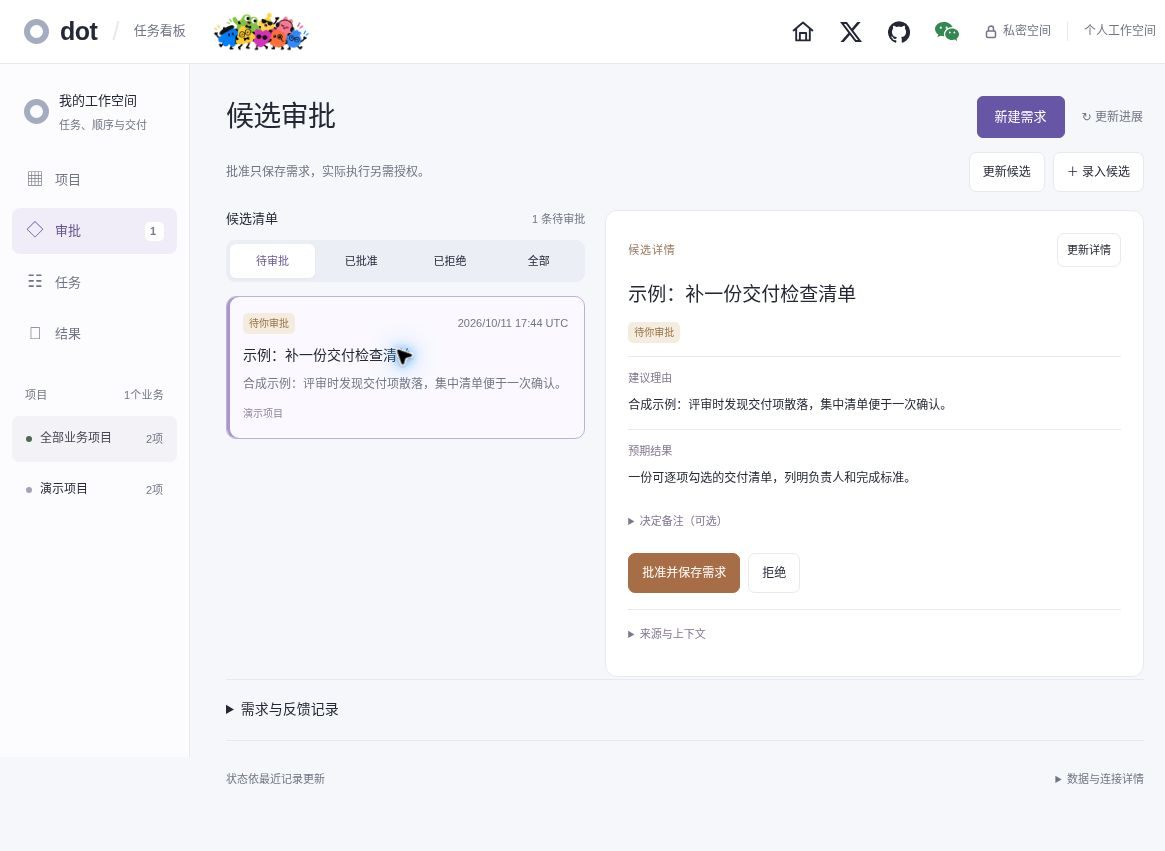
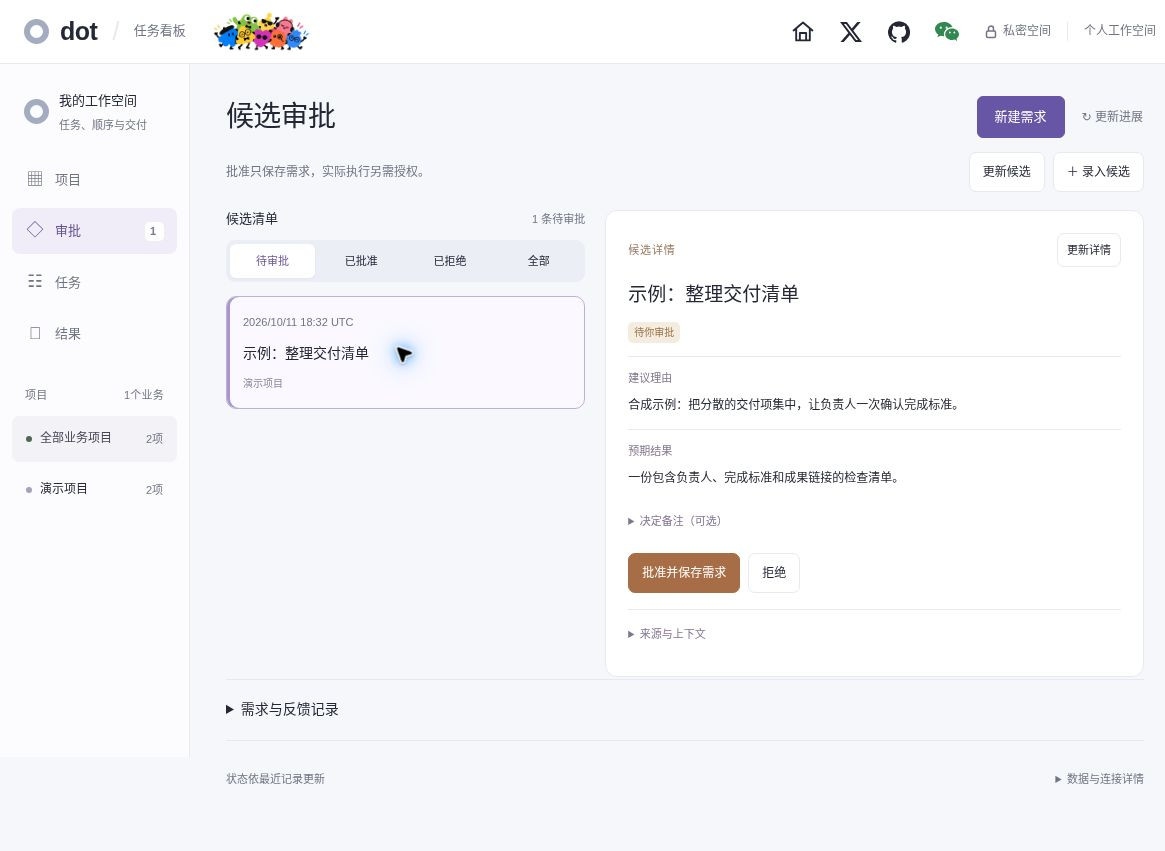
fix(ui): remove repeated decision and task details

diff --git a/public/app.js b/public/app.js
@@ -1,6 +1,6 @@
 import {createCandidateController, renderCandidateWorkspace, candidateReadsAvailable} from './candidate-workspace.js';
 import {renderTaskWorkspace, renderResultsWorkspace, renderCapabilityState, renderWorkspaceDecisions, decisionProjectId} from './workspace-views.js';
-import {renderProjectClarity, renderRequestInbox, taskClarity, clarityBoard, renderTaskHistory, createManualStatusController, renderManualStatusForm, createTaskRequirementsController, renderTaskRequirementsForm, MANUAL_STATES, presentationScope, projectPresentationKind, presentationBoard} from './project-clarity.js';
+import {renderProjectClarity, renderRequestInbox, taskClarity, compactTaskFacts, clarityBoard, renderTaskHistory, createManualStatusController, renderManualStatusForm, createTaskRequirementsController, renderTaskRequirementsForm, MANUAL_STATES, presentationScope, projectPresentationKind, presentationBoard} from './project-clarity.js';
 import {createQueueControls} from './queue-controls.js';
 import {aggregateProjects, renderProjectOverview, ageExecutionBoard, executionExpirySignature, mappedQueueTaskContext, originalQueueTaskContext, withoutManagedQueueTasks} from './project-overview.js';
 import {createRolePortrait, resolvePortraitRole} from './collaboration-graph.js';
@@ -123,8 +123,9 @@ function taskInspector(task){
   if(ui.fromAgent){const agent=agentById(ui.fromAgent);fragment.append(button('inspector-back',`← 返回 ${agentName(agent)}`,()=>selectItem('agent',ui.fromAgent)));}
   fragment.append(el('h2','inspector-title',`${task.taskNumber?'#'+task.taskNumber+' · ':''}${task.title}`));fragment.append(button('request-task-cta','就这项任务补充需求 / 反馈',()=>openTaskRequest(task)));const status=el('div','inspector-status');status.append(badge(taskState(task)),el('span','',freshLabel(task.observedAt) || '近期观察'));fragment.append(status);
   const demand=detailSection('既有任务需求','','来源：当前任务记录 · 与新增需求/反馈记录分别保留');appendPairs(demand,[['目标',task.goal||'尚未记录'],['完成标准',task.acceptanceCriteria||'尚未记录']]);fragment.append(demand);
-  const progress=detailSection('进展记录','◉',task.currentStep?`当前步骤：${task.currentStep}`:task.lastEffectiveAction?`最近有效动作：${task.lastEffectiveAction}`:task.observation,'尚未记录具体进展');appendPairs(progress,[['项目',task.project],['阶段',task.stage],['任务角色',task.ownerRole || '角色未记录'],['观察时间',formatted(task.observedAt)]]);fragment.append(progress);
-  const clarity=taskClarity(task,currentBoard(),queueSnapshot,Date.now(),config?.staleAfterMinutes||120),arranged=clarity.stopped||clarity.manualCompleted;const next=detailSection(arranged?'当前安排':'卡点与下一步','⌁');if(arranged){next.append(el('p','',clarity.next));}else {if(clarity.blocker){const block=el('div','attention-box');block.append(el('strong','','停在这里的原因'),document.createTextNode(text(clarity.blocker)));next.append(block);}const node=el('div','next-action');node.append(el('strong','','下一步'),document.createTextNode(text(clarity.next)));next.append(node);if(task.nextOwnerRole)next.append(el('p','time-note',`下一步负责人 · ${task.nextOwnerRole}`));}fragment.append(next);renderTaskHistory(fragment,clarity.history);
+  const clarity=taskClarity(task,currentBoard(),queueSnapshot,Date.now(),config?.staleAfterMinutes||120),arranged=clarity.stopped||clarity.manualCompleted,facts=compactTaskFacts({...clarity,progress:task.currentStep||task.lastEffectiveAction||task.observation||''});
+  const progress=detailSection(['进展记录',facts.progressIsBlocker?'卡点':'',facts.progressIsNext?'下一步':''].filter(Boolean).join(' · '),'◉',task.currentStep?`当前步骤：${task.currentStep}`:task.lastEffectiveAction?`最近有效动作：${task.lastEffectiveAction}`:task.observation,'尚未记录具体进展');appendPairs(progress,[['项目',task.project],['阶段',task.stage],['任务角色',task.ownerRole || '角色未记录'],['观察时间',formatted(task.observedAt)]]);if(facts.progressIsNext&&task.nextOwnerRole)progress.append(el('p','time-note',`下一步负责人 · ${task.nextOwnerRole}`));fragment.append(progress);
+  if(arranged||facts.blocker||facts.next){const next=detailSection(arranged?'当前安排':facts.blocker&&facts.next||facts.blockerIsNext?'卡点与下一步':facts.blocker?'卡点':'下一步','⌁');if(arranged){next.append(el('p','',clarity.next));}else {if(facts.blocker){const block=el('div','attention-box');block.append(el('strong','',facts.blockerIsNext?'卡点与下一步':'停在这里的原因'),document.createTextNode(text(facts.blocker)));next.append(block);}if(facts.next){const node=el('div','next-action');node.append(el('strong','','下一步'),document.createTextNode(text(facts.next)));next.append(node);}if(!facts.progressIsNext&&task.nextOwnerRole)next.append(el('p','time-note',`下一步负责人 · ${task.nextOwnerRole}`));}fragment.append(next);}renderTaskHistory(fragment,clarity.history);
   const linked=taskAgents(task),owners=detailSection('执行负责人记录','⑂');if(linked.length){const rows=el('div','related-list');for(const agent of linked){const node=button('related-button',undefined,()=>selectItem('agent',agent.id));node.append(el('span','',agentName(agent)),badge(agentState(agent)));rows.append(node);}owners.append(rows);}else owners.append(el('p','missing','尚未找到可核对的原执行线程'));fragment.append(owners);
   const evidence=detailSection('产出与证据','↗');appendEvidence(evidence,task.evidence);fragment.append(evidence);
   if(config?.requirementsEnabled===true){
@@ -132,7 +133,7 @@ function taskInspector(task){
   }
   const manualSection=detailSection('手动状态与备注','');renderManualStatusForm(manualSection,task,manualStatuses);fragment.append(manualSection);
   const checks=detailSection('验收状态','✓'),checksList=el('div','verification');for(const [key,label] of [['sourceReview','源码 / 资料检查'],['deployment','部署 / 交付'],['businessAcceptance','业务验收']]){const check=task.verification?.[key] || {},row=el('div','verification-row'),line=el('div','verification-top');line.append(el('span','',label),el('span','verification-state',config?.verification?.[check.state] || '未核实'));row.append(line);if(check.note)row.append(el('p','verification-note',check.note));checksList.append(row);}checks.append(checksList);fragment.append(checks);
-  const details=el('details','more-details');details.open=expandedDetails.has(task.id);details.addEventListener('toggle',()=>{if(details.open)expandedDetails.add(task.id);else expandedDetails.delete(task.id);});details.append(el('summary','','目标与完成标准'));for(const [label,value] of [['目标',task.goal],['完成标准',task.acceptanceCriteria],['留给你的决定',task.retainedDecision]]){details.append(el('h3','',label),el('p','',value || '未记录'));}if(task.state==='paused')details.append(el('p','','保持暂停；此页面不会启动或恢复任务'));fragment.append(details);return fragment;
+  const details=el('details','more-details');details.open=expandedDetails.has(task.id);details.addEventListener('toggle',()=>{if(details.open)expandedDetails.add(task.id);else expandedDetails.delete(task.id);});details.append(el('summary','','补充决定与限制'),el('h3','','留给你的决定'),el('p','',task.retainedDecision || '未记录'));if(task.state==='paused')details.append(el('p','','保持暂停；此页面不会启动或恢复任务'));fragment.append(details);return fragment;
 }
 function renderInspector(){$('inspector').hidden=!ui.detailOpen;const selected=ui.selected&&(ui.selected.type==='agent'?agentById(ui.selected.id):taskById(ui.selected.id));if(!selected){ui.detailOpen=false;$('inspector').hidden=true;const empty=el('div','inspector-empty');empty.append(el('span','','↖'),el('h2','','选择一条记录'),el('p','','查看任务、等待原因和最近产出'));$('inspector').replaceChildren(empty);return;}$('inspector').replaceChildren(ui.selected.type==='agent'?agentInspector(selected):taskInspector(selected));}
 function queueTaskContext(job){return mappedQueueTaskContext(currentBoard(),job)||originalQueueTaskContext(currentBoard(),job);}

diff --git a/public/project-clarity.js b/public/project-clarity.js
@@ -66,6 +66,15 @@ export function taskClarity(task, board, queue, now = Date.now(), staleAfterMinu
   return {task, manual, ...display, history:display.manualCompleted?{blocker:safe(task.blocker),next:safe(task.nextAction)}:null, owners, execution, executionState, threadVerified:Boolean(execution?.threadBound), stopped, freshness, status, progress, next, blocker:display.manualCompleted?'':safe(task.blocker)};
 }
 
+// Collapse only identical source text, retaining every field's visible meaning.
+// Stop arrangements and manual completion notes remain separate from observations.
+export function compactTaskFacts(clarity) {
+  const progress=safe(clarity.progress),blocker=clarity.stopped?'':safe(clarity.blocker),next=safe(clarity.next);
+  const progressIsBlocker=Boolean(progress&&blocker===progress),mayMergeNext=!clarity.stopped&&!clarity.manualCompleted;
+  const progressIsNext=Boolean(mayMergeNext&&progress&&next===progress),blockerIsNext=Boolean(mayMergeNext&&!progressIsNext&&blocker&&next===blocker);
+  return {progress,blocker:progressIsBlocker?'':blocker,next:progressIsNext||blockerIsNext?'':next,progressIsBlocker,progressIsNext,blockerIsNext};
+}
+
 function dom(container) {
   const doc = container.ownerDocument;
   const el = (tag, cls = '', value) => { const node = doc.createElement(tag); node.className = cls; if (value !== undefined) node.textContent = safe(String(value)); return node; };
@@ -95,7 +104,7 @@ export function renderProjectClarity(container, board, queue, {project = '', que
       section.append(roster);
     } else for (const mapped of group.tasks) {
       const task = list(board.tasks).find(item => item.id === mapped.id); if (!task) continue;
-      const c = taskClarity(task, board, queue, now, staleAfterMinutes), article = el('article', 'pc-task'); article.dataset.taskId = task.id;
+      const c = taskClarity(task, board, queue, now, staleAfterMinutes), facts=compactTaskFacts({...c,progress:associationOnly(c.progress)?'':c.progress,blocker:associationOnly(c.blocker)?'':c.blocker,next:associationOnly(c.next)?'':c.next}), article = el('article', 'pc-task'); article.dataset.taskId = task.id;
       const heading = el('div', 'pc-task-head');
       const title = button((task.taskNumber ? `#${task.taskNumber} · ` : '') + safe(task.title, '未命名任务'), () => onTask?.(task.id), 'pc:task:' + task.id, 'pc-task-title'); title.setAttribute('aria-label', '查看任务详情：' + safe(task.title, '未命名任务'));
       const status = statusController ? createQuickStatus(container,task,c,statusController) : el('span', 'pc-status', c.status); status.dataset.state = c.manual ? c.manual.state : c.stopped ? task.state : c.executionState === 'running' ? 'running' : task.state === 'running' ? 'unknown' : task.state;
@@ -119,10 +128,10 @@ export function renderProjectClarity(container, board, queue, {project = '', que
         for(const person of c.owners)ownerNotes.append(el('p','pc-owner-state',safe(person.name,'已记录负责人')+' · '+ownerObservationLabel(person,now,staleAfterMinutes)));
         details.append(ownerNotes);
       }
-      if(!associationOnly(c.progress)){
+      if(facts.progress){
         const historicalObservation=c.freshness==='old';
         const progress = el('section', 'pc-progress');
-        progress.append(el('h3', '', historicalObservation?'历史导入记录':'最新进展'));
+        progress.append(el('h3', '', [historicalObservation?'历史导入记录':'最新进展',facts.progressIsBlocker?(c.freshness==='current'?'卡点':'记录卡点'):'',facts.progressIsNext?'下一步':''].filter(Boolean).join(' · ')));
         if(historicalObservation)details.append(el('p','pc-stamp','历史导入记录不代表当前部署统计，也不是自动接续验收结果。'));
         progress.append(el('p', 'pc-copy', c.progress));
         if(task.observedAt)progress.append(el('span', 'pc-stamp', utcTime(task.observedAt) + (c.freshness === 'old' ? (c.manualCompleted?' · 历史观察已过期，手动完成决定保持':' · 观察已过期，当前进展待核实') : c.freshness === 'future' ? ' · 时间待核实' : '')));
@@ -134,8 +143,8 @@ export function renderProjectClarity(container, board, queue, {project = '', que
         const receipt = disclosure('pc:receipt:' + task.id, label, 'pc-receipt');
         receipt.append(el('p', 'pc-receipt-title', safe(c.execution.displayTitle) || safe(c.execution.title, '本次执行')), el('p', 'pc-copy', safe(c.execution.summary) || safe(c.execution.lastEffectiveAction) || '尚无结果摘要'), el('span', 'pc-stamp', '回执时间：' + utcTime(c.execution.lastExecutionObservedAt || c.execution.lastLifecycleObservedAt || c.execution.observedAt)), el('p', 'pc-receipt-note', '这条回执只对应本次执行，不代表整个项目已完成。')); details.append(receipt);
       }
-      if (!c.stopped && c.blocker && !associationOnly(c.blocker)) { const block = disclosure('pc:blocker:' + task.id, (c.freshness === 'current' ? '卡点 · ' : '记录卡点 · ') + Array.from(c.blocker).slice(0, 54).join('') + (Array.from(c.blocker).length > 54 ? '…' : ''), 'pc-blocker'); block.append(el('p', 'pc-copy', c.blocker)); article.append(block); }
-      if(!associationOnly(c.next)){const next = el('div', 'pc-next'); next.append(el('h3', '', c.stopped ? '当前安排' : c.manual?.state === 'completed' ? '状态备注' : '下一步'), el('p', 'pc-copy', c.next)); article.append(next);}
+      if (facts.blocker) { const block = disclosure('pc:blocker:' + task.id, (c.freshness === 'current' ? '卡点 · ' : '记录卡点 · ') + (facts.blockerIsNext?'下一步 · ':'') + Array.from(facts.blocker).slice(0, 54).join('') + (Array.from(facts.blocker).length > 54 ? '…' : ''), 'pc-blocker'); block.append(el('p', 'pc-copy', facts.blocker)); article.append(block); }
+      if(facts.next){const next = el('div', 'pc-next'); next.append(el('h3', '', c.stopped ? '当前安排' : c.manual?.state === 'completed' ? '状态备注' : '下一步'), el('p', 'pc-copy', facts.next)); article.append(next);}
       renderTaskHistory(details,c.history);
       const footer = el('div', 'pc-footer'), evidence = list(task.evidence); footer.append(button(evidence.length ? `进展详情 · ${evidence.length} 项证据` : '查看进展详情', () => onTask?.(task.id), 'pc:evidence:' + task.id));
       if (task.state === 'completed' && !c.manual) footer.append(el('span', 'pc-muted', '来源完成记录'));

diff --git a/public/candidate-workspace.js b/public/candidate-workspace.js
@@ -90,7 +90,7 @@ export function renderCandidateWorkspace(container,controller,{enabled=false,cap
   listPane.append(heading);const filters=node(doc,'div','cw-filters');for(const [value,label]of [['proposed','待审批'],['approved','已批准'],['rejected','已拒绝'],['all','全部']]){const button=action(doc,label,()=>controller.setFilter(value),'cw-filter');button.setAttribute('aria-pressed',String(state.filter===value));button.dataset.focusKey='candidate-filter:'+value;filters.append(button);}listPane.append(filters);
   const readStatus=node(doc,'p',state.error?'cw-alert':'cw-muted',state.error||(state.loading?'正在读取候选记录…':''));readStatus.setAttribute('role','status');listPane.append(readStatus);
   const visible=state.records.filter(item=>state.filter==='all'||item.status===state.filter),list=node(doc,'div','cw-list');
-  for(const candidate of visible){const row=action(doc,'',()=>void controller.select(candidate.id),'cw-candidate');row.dataset.focusKey='candidate:'+candidate.id;row.setAttribute('aria-pressed',String(state.selectedId===candidate.id));const top=node(doc,'div','cw-card-top');top.append(node(doc,'span','cw-status',CANDIDATE_STATUS[candidate.status]),node(doc,'span','cw-card-date',candidate.dueAt?'截止 '+time(candidate.dueAt):time(candidate.createdAt)));row.append(top,node(doc,'strong','cw-card-title',candidate.title),node(doc,'p','cw-card-reason',candidate.reason),node(doc,'span','cw-card-project',projects.find(project=>project.id===candidate.projectId)?.displayName||projects.find(project=>project.id===candidate.projectId)?.name||candidate.projectId));list.append(row);}
+  for(const candidate of visible){const row=action(doc,'',()=>void controller.select(candidate.id),'cw-candidate');row.dataset.focusKey='candidate:'+candidate.id;row.setAttribute('aria-pressed',String(state.selectedId===candidate.id));const top=node(doc,'div','cw-card-top');top.append(node(doc,'span','cw-card-date',candidate.dueAt?'截止 '+time(candidate.dueAt):time(candidate.createdAt)));row.append(top,node(doc,'strong','cw-card-title',candidate.title),node(doc,'span','cw-card-project',projects.find(project=>project.id===candidate.projectId)?.displayName||projects.find(project=>project.id===candidate.projectId)?.name||candidate.projectId));list.append(row);}
   if(!visible.length)list.append(node(doc,'p','cw-empty',state.loaded?(state.nextCursor?'当前已读取记录中没有这一类，加载更多继续查看。':'这个分类还没有候选。录入有来源的建议后，在这里审批。'):'读取后显示候选；空列表不代表已经处理完。'));listPane.append(list);
   if(state.nextCursor){const more=action(doc,'加载更多候选',()=>void controller.refresh({more:true}));more.disabled=state.loading;listPane.append(more);}layout.append(listPane);
   const detail=node(doc,'section','cw-detail');detail.setAttribute('aria-label','候选详情');detail.setAttribute('tabindex','-1');detail.dataset.focusKey='candidate-detail';

diff --git a/README.md b/README.md
@@ -69,7 +69,7 @@ Version 0.2.0 supports private online deployment with your own account and autho
 ### 0.3.0 preview: review suggestions before they become requests
 
 - **Approvals:** keep a suggestion's source, reason, expected result, deadline and project together. Approve it to save one request, or decline it with a note.
-- **Projects first:** latest progress and decisions are visible first; filters, raw records and technical details expand on demand. Task owners and result records stay grouped by project.
+- **Projects first:** latest progress and decisions are visible first; identical progress/blocker/next-step text is shown once with its labels retained. Filters, raw records and technical details expand on demand. Task owners and result records stay grouped by project.
 - **Continue the original task:** the session client can inspect the selected request and original session before reserving capacity. Missing connections and blocked states stay visible.
 
 Approval saves a request for dot to read. Execution uses the installation's connected host and its actual permissions. [Workflow and setup details](docs/candidate-workflow.md) explain these separate steps.

diff --git a/CHANGELOG.md b/CHANGELOG.md
@@ -4,7 +4,7 @@
 
 ## 0.3.0-rc.1 — 2026-10-11 (source preview)
 
-- Simplify the project homepage: progress and decisions first, one primary request entry, with filters, raw records, candidate source details and technical diagnostics collapsed on demand. Preserve task controls and project-level Agent grouping.
+- Simplify the project homepage: progress and decisions first, one primary request entry, with filters, raw records, candidate source details and technical diagnostics collapsed on demand. Preserve task controls and project-level Agent grouping. Show exact duplicate progress text once, remove the repeated goal/criteria block from task details, and keep full candidate reasons in the detail panel.
 - Add durable candidate suggestions with source references, rationale, expected outcome, deadline, project and decision notes.
 - Approve a candidate into exactly one ordinary received request, with atomic persistence, version checks and idempotent replay. Approval does not enqueue or execute work.
 - Separate approval, project, task and result navigation while retaining project hierarchy and the four author links.

diff --git a/CHANGELOG.zh-CN.md b/CHANGELOG.zh-CN.md
@@ -4,7 +4,7 @@
 
 ## 0.3.0-rc.1 — 2026-10-11（源码预览）
 
-- 精简项目首页：优先展示进展与待用户决定事项，只保留一个主要新增需求入口；筛选、原始记录、候选来源详情及技术诊断按需展开，保留原任务操作与项目下的角色聚合。
+- 精简项目首页：优先展示进展与待用户决定事项，只保留一个主要新增需求入口；筛选、原始记录、候选来源详情及技术诊断按需展开，保留原任务操作与项目下的角色聚合。完全相同的进展合并显示，详情不再重复展示目标与完成标准，候选完整理由只保留在详情栏。
 - 新增持久化候选建议，保存来源、推荐理由、预期成果、截止时间、所属项目及人工判断备注。
 - 批准候选时原子保存一条普通待读取需求，使用版本核对及幂等回执，重复操作不新增需求。批准不排队、不执行。
 - 分开审批、项目、任务及成果导航，保留项目层级和四个作者入口。

diff --git a/README.zh-CN.md b/README.zh-CN.md
@@ -69,7 +69,7 @@
 ### 0.3.0 预览：先审批建议，再形成需求
 
 - **审批区：**把建议的来源、推荐理由、预期成果、截止时间和项目放在一起，批准后保存一条需求，也可写明理由暂不采用。
-- **项目优先：**先看最新进展和待决定事项，筛选、原始记录与技术详情按需展开，任务负责人和成果仍按项目聚合。
+- **项目优先：**先看最新进展和待决定事项，完全相同的进展、卡点与下一步合并显示并保留标签。筛选、原始记录与技术详情按需展开，任务负责人和成果仍按项目聚合。
 - **沿原任务接续：**会话客户端可先检查指定需求和原会话，再决定是否领取任务。缺少连接或受阻的原因明确展示。
 
 批准会把需求交给 dot 读取，执行仍使用该安装已连接的宿主和真实权限。[流程及接入说明](docs/candidate-workflow.zh-CN.md)列出每一步的条件。
